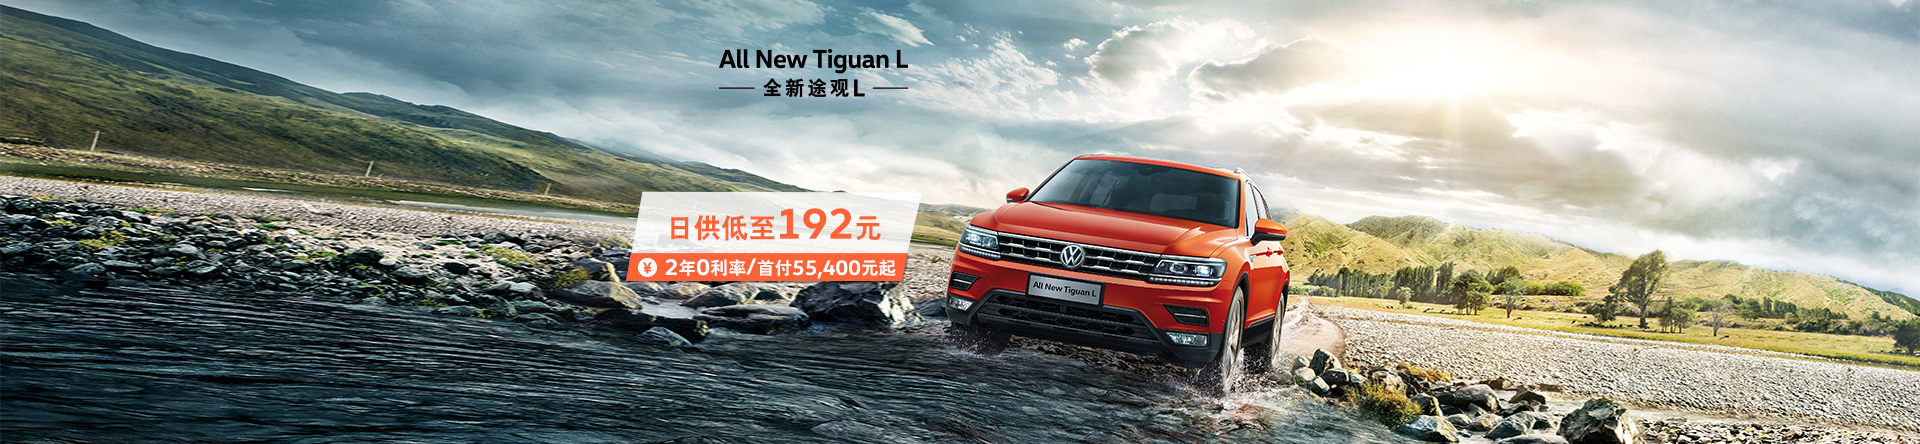
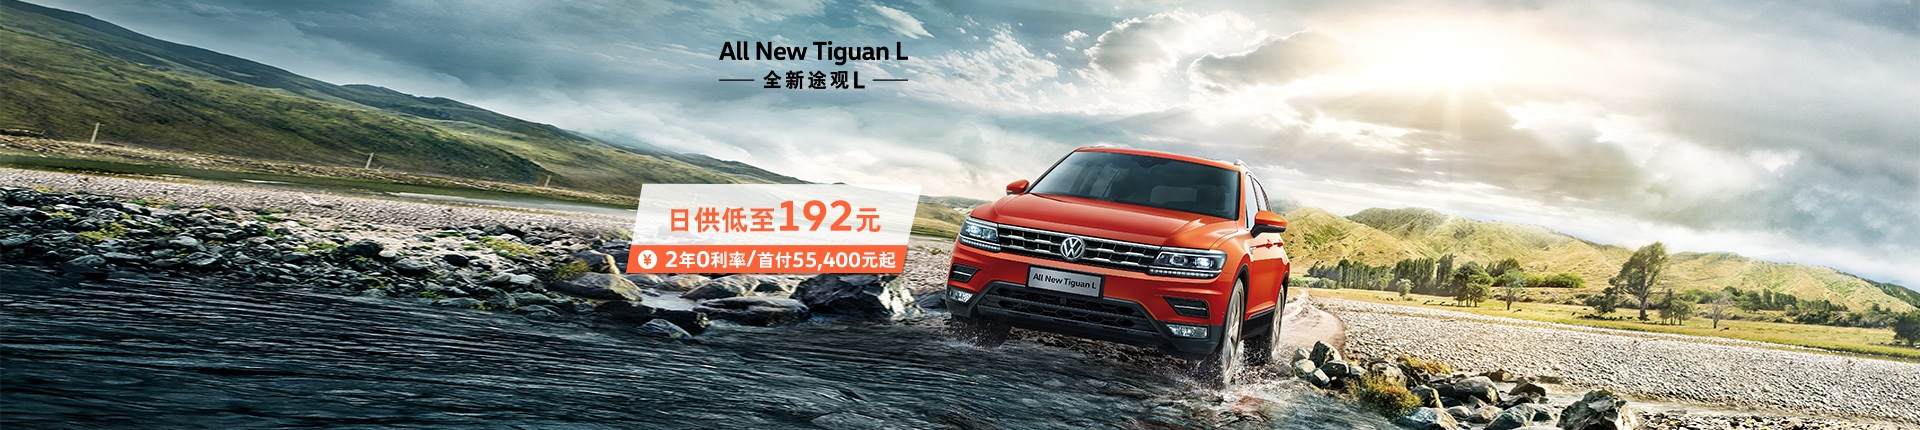
20170219

diff --git a/css/chexiang.css b/css/chexiang.css
@@ -1,7 +1,50 @@
-*{
-	border: none;
+/* http://meyerweb.com/eric/tools/css/reset/ 
+   v2.0 | 20110126
+   License: none (public domain)
+*/
+
+html, body, div, span, applet, object, iframe,
+h1, h2, h3, h4, h5, h6, p, blockquote, pre,
+a, abbr, acronym, address, big, cite, code,
+del, dfn, em, img, ins, kbd, q, s, samp,
+small, strike, strong, sub, sup, tt, var,
+b, u, i, center,
+dl, dt, dd, ol, ul, li,
+fieldset, form, label, legend,
+table, caption, tbody, tfoot, thead, tr, th, td,
+article, aside, canvas, details, embed, 
+figure, figcaption, footer, header, hgroup, 
+menu, nav, output, ruby, section, summary,
+time, mark, audio, video {
 	margin: 0;
 	padding: 0;
+	border: 0;
+	font-size: 100%;
+	font: inherit;
+	vertical-align: baseline;
+}
+/* HTML5 display-role reset for older browsers */
+article, aside, details, figcaption, figure, 
+footer, header, hgroup, menu, nav, section {
+	display: block;
+}
+body {
+	line-height: 1;
+}
+ol, ul {
+	list-style: none;
+}
+blockquote, q {
+	quotes: none;
+}
+blockquote:before, blockquote:after,
+q:before, q:after {
+	content: '';
+	content: none;
+}
+table {
+	border-collapse: collapse;
+	border-spacing: 0;
 }
 body{
 	font-family: arial,"microsoft yahei",verdana,sans-serif;
@@ -564,18 +607,38 @@ body{
 	left: 100%;
 	height: 432px;
 	width: 100%;
-	-webkit-animation:picshowlefttoright 6s infinite;
-	animation: picshowlefttoright 6s infinite;
+	-webkit-animation:picshowlefttoright 6s linear infinite;
+	animation: picshowlefttoright 6s linear infinite;
 }
 
 [class*="pc_img"] a{
 	height: 432px;
 	width: 100%;
 }
-[class*="pc_img"] img{
+.pc_a_img{
 	height: 432px;
 	width: 100%;
+	margin: 0;
 }
+.pc_img_one div.pc_a_img{
+	background: url(../imgs/cx_imgs/pc_show1.jpg);
+	background-repeat: no-repeat;
+	background-size: cover;
+}
+.pc_img_two div.pc_a_img{
+	background: url(../imgs/cx_imgs/pc_show2.jpg);
+	background-repeat: no-repeat;
+	background-size: cover;
+}
+.pc_img_three div.pc_a_img{
+	background: url(../imgs/cx_imgs/pc_show3.jpg);
+	background-repeat: no-repeat;
+	background-size: cover;
+}
+/*[class*="pc_img"] img{
+	height: 432px;
+	width: 100%;
+}*/
 .pc_img_one{
 	-webkit-animation-delay: -0.6s;
 	animation-delay: -0.6s;
@@ -588,20 +651,21 @@ body{
 	-webkit-animation-delay: 3.4s;
 	animation-delay: 3.4s;
 }
+
 @keyframes picshowlefttoright{
-	0%{transform: translateX(0);}
-	10%{transform: translateX(-100%);}
-	33.33%{transform: translateX(-100%);}
-	43.33%{transform: translateX(-200%);}
-	100%{transform: translateX(-200%);}
+	0%{transform: translate3d(0,0,0);}
+	10%{transform: translate3d(-100%,0,0);}
+	33.33%{transform: translate3d(-100%,0,0);}
+	43.33%{transform: translate3d(-200%,0,0);}
+	100%{transform: translate3d(-200%,0,0);}
 	
 }
 @-webkit-keyframes picshowlefttoright{
-	0%{-webkit-transform: translateX(0);}
-	10%{-webkit-transform: translateX(-100%);}
-	33.33%{-webkit-transform: translateX(-100%);}
-	43.33%{-webkit-transform: translateX(-200%);}
-	100%{-webkit-transform: translateX(-200%);}
+	0%{-webkit-transform: translate3d(0);}
+	10%{-webkit-transform: translate3d(-100%,0,0);}
+	33.33%{-webkit-transform: translate3d(-100%,0,0);}
+	43.33%{-webkit-transform:translate3d(-200%,0,0);}
+	100%{-webkit-transform: translate3d(-200%,0,0);}
 	
 }
 .car_show{
@@ -930,6 +994,16 @@ body{
 }
 
 
+.blog_list ul{
+	list-style: decimal;
+}
+.blog_list ul li{
+	color: #999;
+}
+.blog_list ul li a{
+	color: #333;
+	text-decoration: none;
+}
 .bottom{
 	height: 30px;
 	background: papayawhip;

diff --git a/templates/chexiang.html b/templates/chexiang.html
@@ -191,17 +191,20 @@
 				<div class="md_picture_show">
 					<div class="pc_img_one">
 						<a href="" target="_blank">
-							<img src="../imgs/cx_imgs/pc_show1.jpg" alt="pc_show1" />
+							<div class="pc_a_img"></div>
+							<!--<img src="../imgs/cx_imgs/pc_show1.jpg" alt="pc_show1" />-->
 						</a>
 					</div>
 					<div class="pc_img_two">
 						<a href="" target="_blank">
-							<img src="../imgs/cx_imgs/pc_show2.jpg" alt="pc_show2" />
+							<div class="pc_a_img"></div>
+							<!--<img src="../imgs/cx_imgs/pc_show2.jpg" alt="pc_show2" />-->
 						</a>
 					</div>
 					<div class="pc_img_three">
 						<a href="" target="_blank">
-							<img src="../imgs/cx_imgs/pc_show3.jpg" alt="pc_show3" />
+							<div class="pc_a_img"></div>
+							<!--<img src="../imgs/cx_imgs/pc_show3.jpg" alt="pc_show3" />-->
 						</a>
 					</div>
 				</div>
@@ -395,7 +398,24 @@
 					<div class="md_car_blog">
 						<h3>车知道</h3>
 						<div class="mdcar_leftside">
-							卖 <div class="">
+							<div class="">
+								<h3>热门推荐</h3>
+								<div class="blog_list">
+									<ul>
+										<li>
+											<span>[购车]</span>
+											<a href="">预算20万买什么车好？5款高销量中级车推荐</a>
+										</li>
+										<li>
+											<span>[购车]</span>
+											<a href="">预算20万买什么车好？5款高销量中级车推荐</a>
+										</li>
+										<li>
+											<span>[购车]</span>
+											<a href="">预算20万买什么车好？5款高销量中级车推荐</a>
+										</li>
+									</ul>
+								</div>
 							</div>
 						</div>
 						<div class="mdcar_rightside">

diff --git a/favorite.html b/favorite.html
@@ -51,17 +51,10 @@
 	<body>
 		<div class="container">
 			<div class="eg-box">
-				<a target="_blank" href="http://www.templatemo.com/templates/templatemo_288_green_field">Green Field</a>
-				<a target="_blank" href="http://www.templatemo.com/templates/templatemo_294_wall_shelf/">Wall Shelf</a>
-				<a target="_blank" href="http://www.templatemo.com/templates/templatemo_282_building">Building</a>
-				<a target="_blank" href="http://www.templatemo.com/templates/templatemo_278_cafe_bakery/">Cafe Bakery</a>
-				<a target="_blank" href="http://www.os-templates.com/assets/files/free-css-templates/demo/3/darkness/">Darkness</a>
-				<a target="_blank" href="http://www.templatemo.com/templates/templatemo_162_gray_company/">GrayCompany</a>
-				<a target="_blank" href="http://www.stylishtemplate.com/demos/electronics-web-template-2/">Coffee Maker</a>
-				<a target="_blank" href="http://www.websitetemplatesonline.com/free-template/Retro-Car.html">Retro Car</a>
-				<a target="_blank" href="http://www.cssheaven.org/preview/highfive/">High Five</a>
-				<a target="_blank" href="http://www.cssheaven.org/preview/cssheaven3/">CSS Heaven</a>
-				<a target="_blank" href="http://www.cssheaven.org/preview/cleanred/">Clean Red</a>
+				<a href="http://www.imooc.com/" title="慕课网">慕课网</a>
+				<a href="http://www.51zxw.net/list.aspx?cid=393">我要自学网</a>
+				<a href="http://www.qdfuns.com/">前端网</a>
+				<a href="http://www.qdfuns.com/notes/41249/d13262b59106f3e63303a278b68ccd14.html">笑脸猫</a>
 			</div>
 		</div>
 	</body>

diff --git a/index.html b/index.html
@@ -3,12 +3,12 @@
 
 	<head>
 		<meta charset="UTF-8">
-		<!--<meta name="keywords" content="HTML, CSS, JavaScript">
+		<meta name="keywords" content="HTML, CSS, JavaScript">
 		<meta name="description" content="geqiuli learn HTML, CSS, JS, etc.">
-		<meta name="author" content="geqiuli">-->
+		<meta name="author" content="geqiuli">
 		<!--[if lt IE 9]> <script src="js/html5shiv.js"></script> <![endif]-->
 		<title>liz学习空间</title>
-		<!--<link href="imgs/me.ico" type="image/x-icon" rel="shortcut icon">-->
+		<link href="imgs/me.ico" type="image/x-icon" rel="shortcut icon">
 		<link rel="stylesheet" type="text/css" href="css/exindex.css"/>
 		<link rel="stylesheet" type="text/css" href="css/comm.css" />
 		<script src="js/jquery-2.0.0.min.js" type="text/javascript" charset="utf-8"></script>
@@ -229,7 +229,7 @@
 			</div>
 		</div>
 	</body>
-	<script src="js/myjs.js" type="text/javascript" charset="utf-8"></script>
+	<!--<script src="js/myjs.js" type="text/javascript" charset="utf-8"></script>-->
 	<script type="text/javascript">
 	$(".aside_list li").click(function(){
 		var that=this;

diff --git a/js/myjs.js b/js/myjs.js
@@ -17,6 +17,11 @@ var linkHead3=document.createElement("link");
 linkHead1.href="../imgs/me.ico";
 linkHead1.type="image/x-icon";
 linkHead1.rel="shortcut icon";
+linkHead2.rel="stylesheet";
+linkHead2.type="text/css";
+linkHead2.href="css/exindex.css";
+document.getElementsByTagName('head')[0].appendChild(linkHead1);
+document.getElementsByTagName('head')[0].appendChild(linkHead2);
 function getScrollTop() {
 		var scrollTop = document.documentElement.scrollTop || window.pageYOffset || document.body.scrollTop;
 		return scrollTop;
